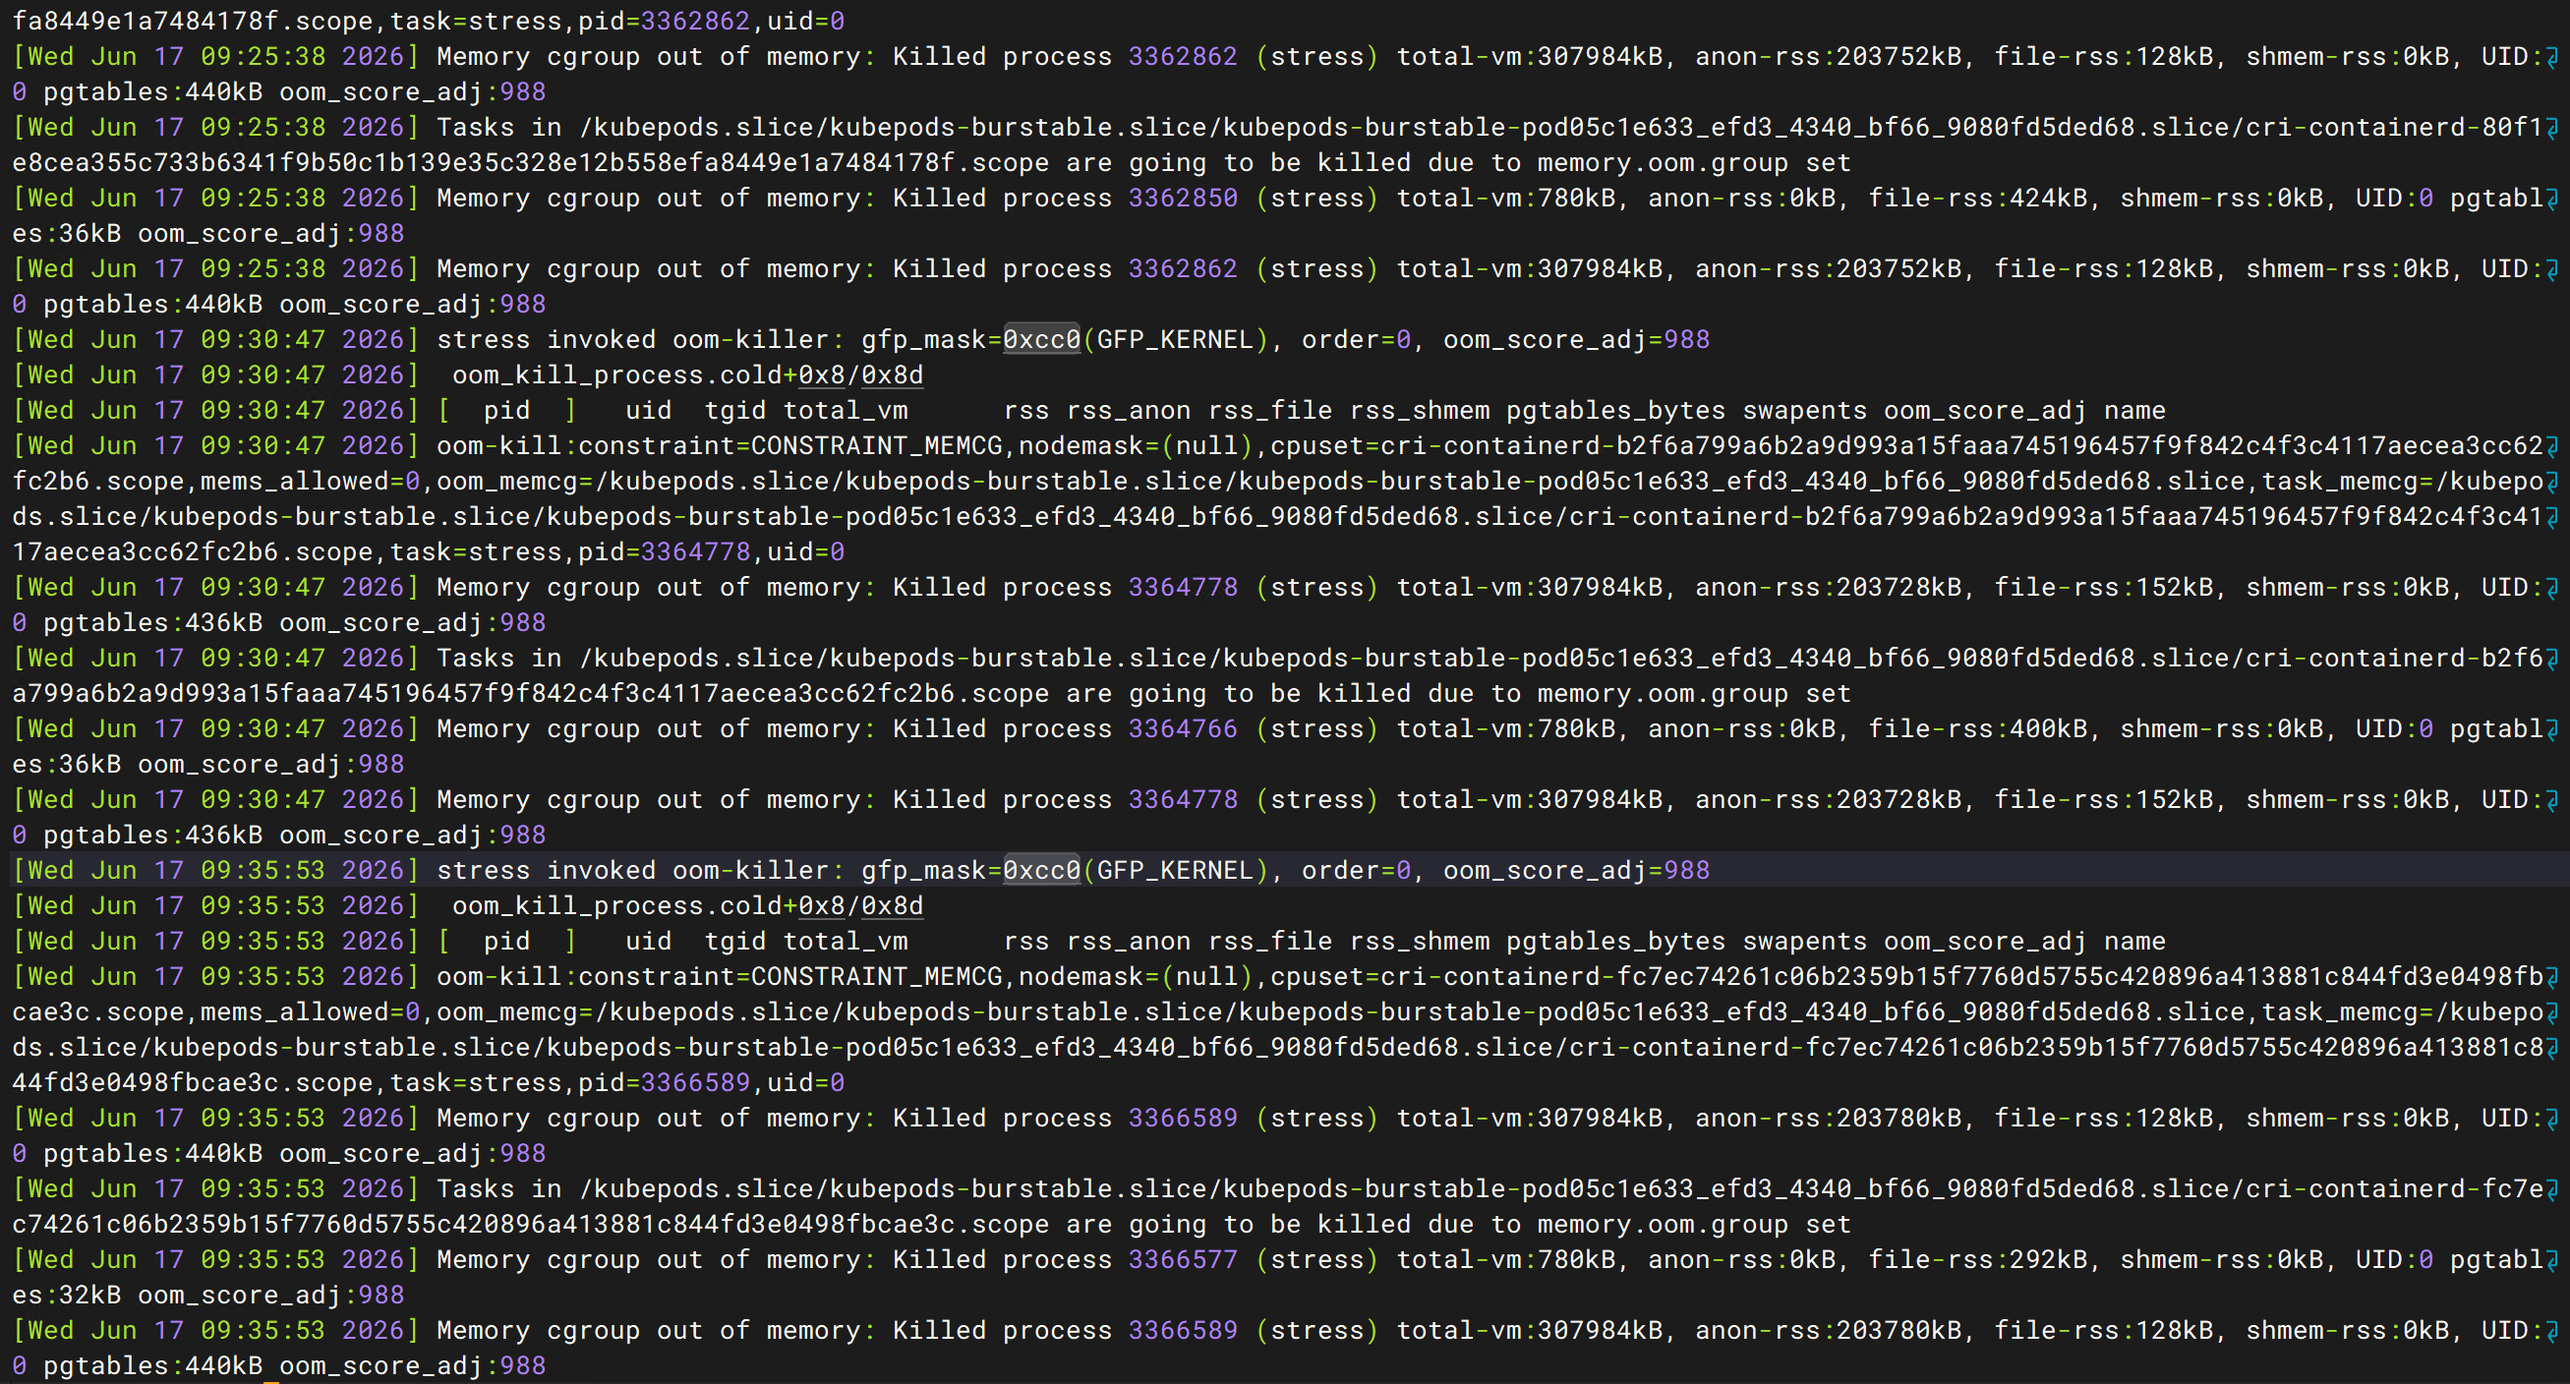
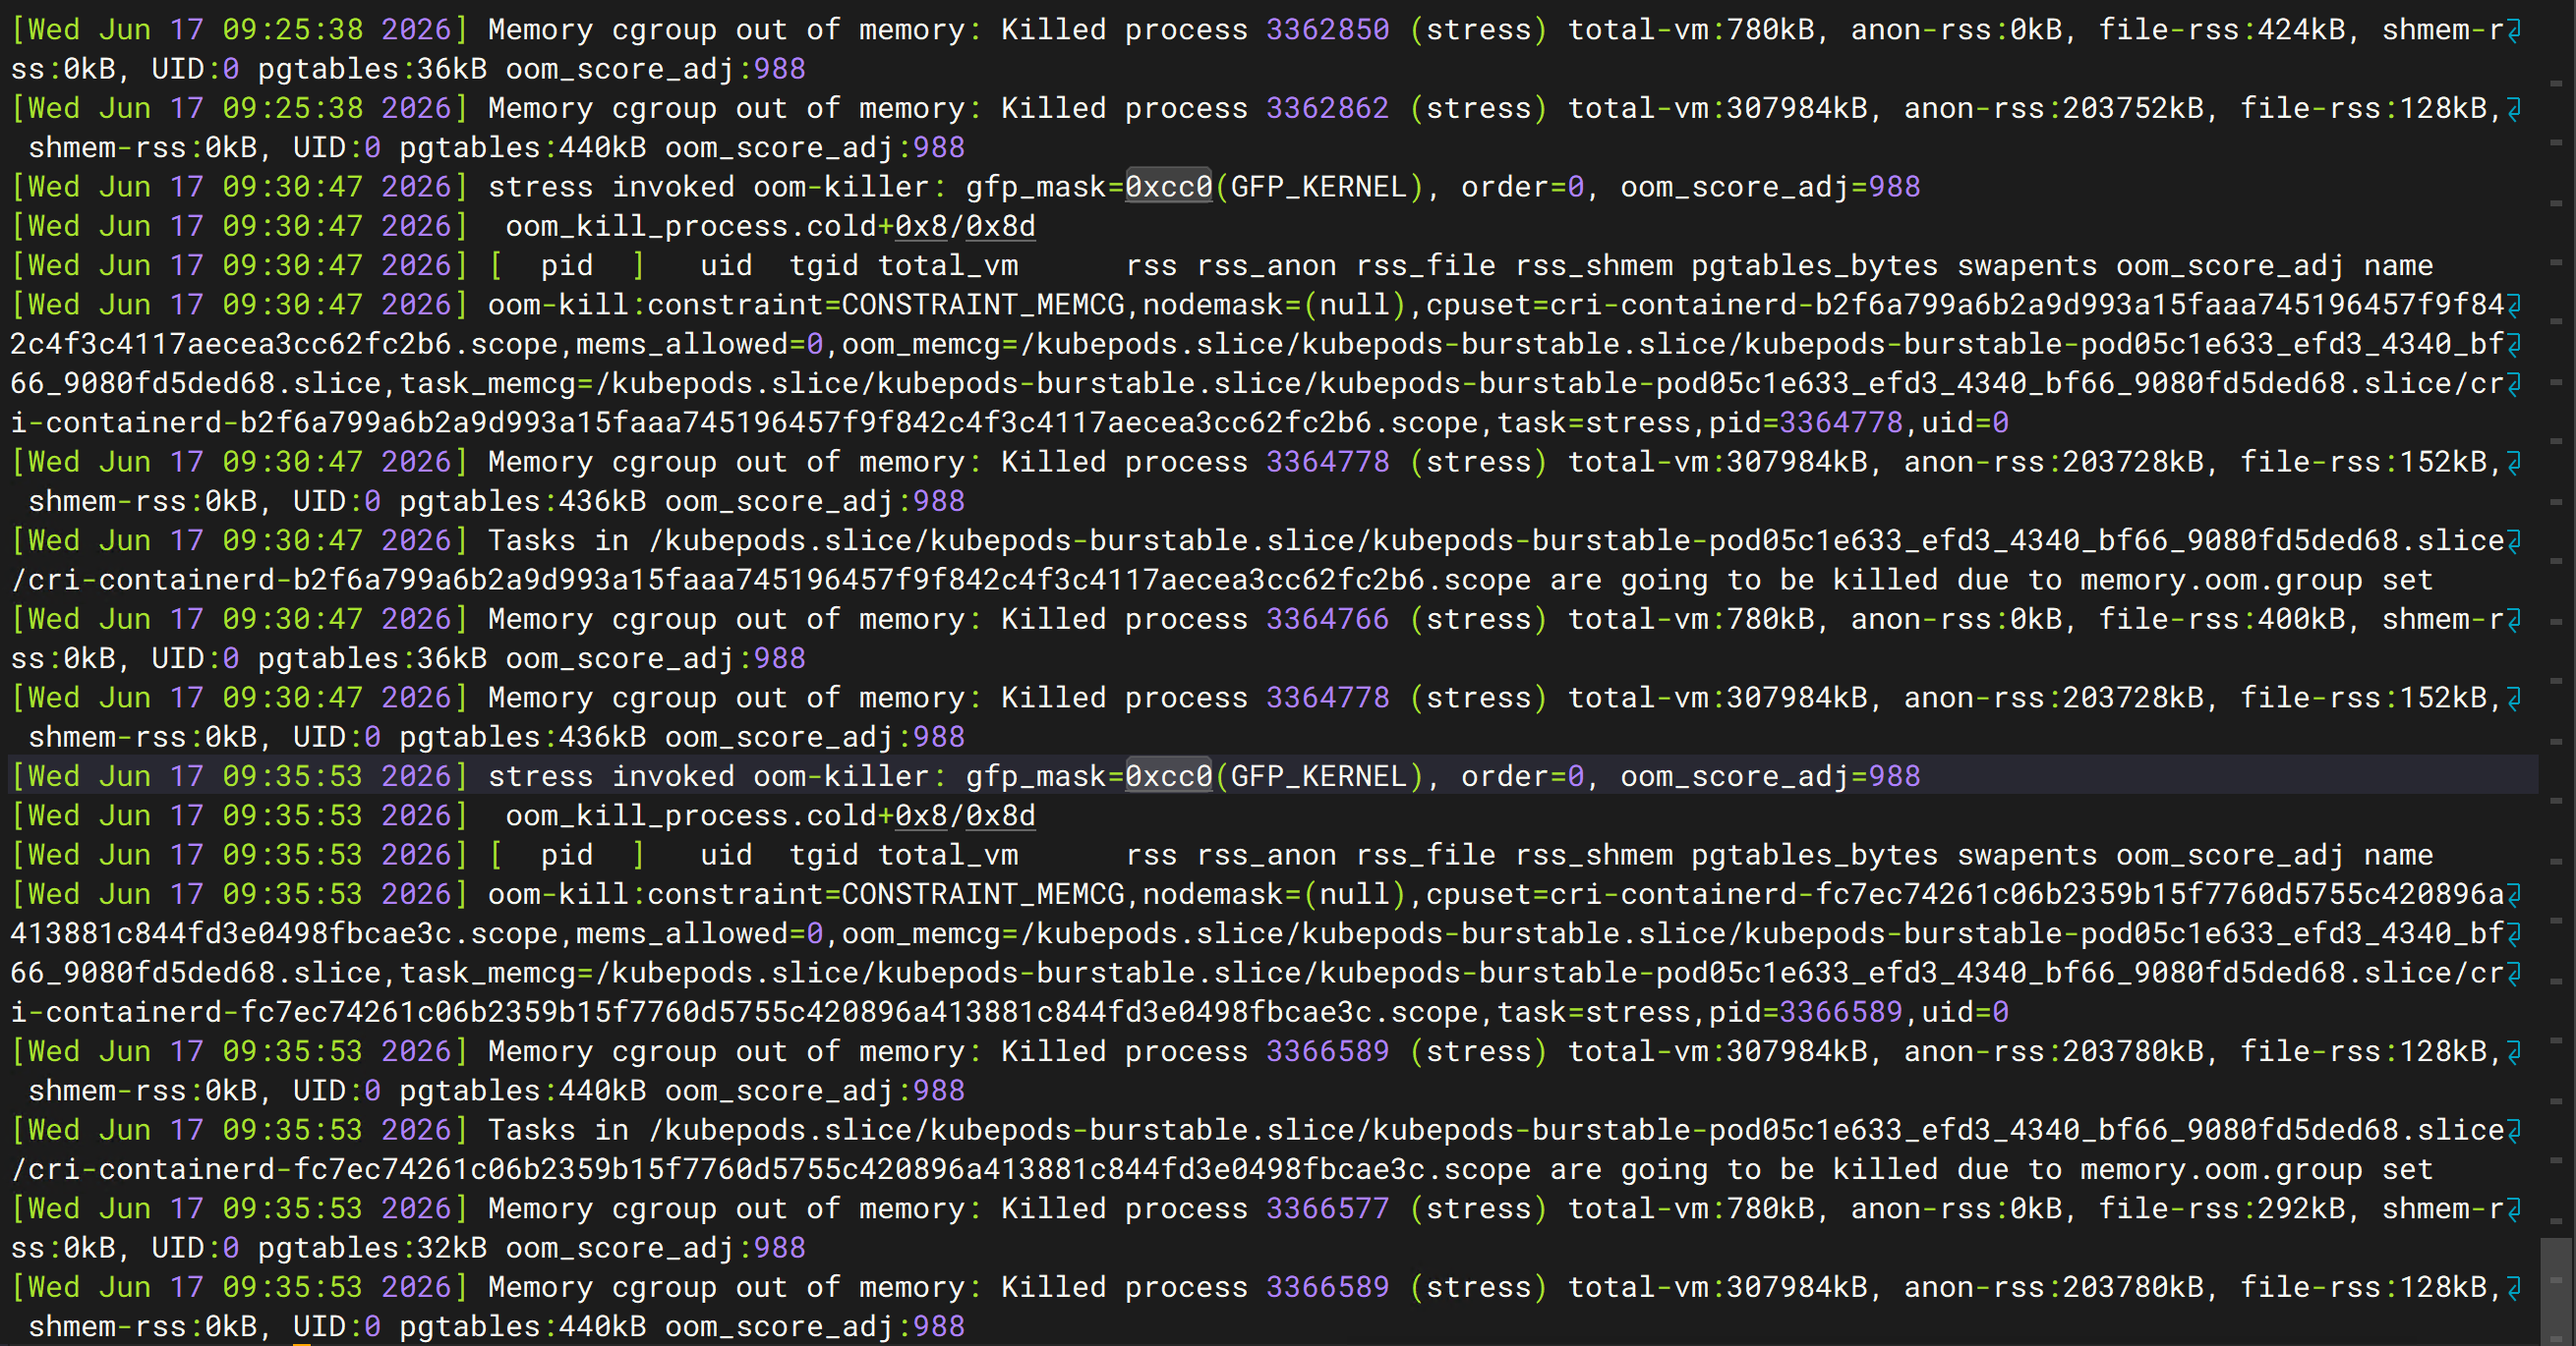
添加ubuntu2204部署文章

Changed region(s): [[0.0, 0.0, 1.0, 1.0]]

diff --git a/docs/deployment/linux/ubuntu-22.04.md b/docs/deployment/linux/ubuntu-22.04.md
@@ -33,6 +33,7 @@ Ubuntu 每两年发布一个 LTS（Long Term Support）长期支持版本。
 | Ubuntu 20.04 | LTS | 2025 |
 | Ubuntu 22.04 | LTS | 2027 |
 | Ubuntu 24.04 | LTS | 2029 |
+| Ubuntu 26.04 | LTS | 2031 |
 
 本教程采用：
 
@@ -46,21 +47,12 @@ Ubuntu 每两年发布一个 LTS（Long Term Support）长期支持版本。
 
 最低配置：
 
-| 项目  | 配置     |
-| --- | ------ |
-| CPU | 1 Core |
-| 内存  | 2 GB   |
-| 磁盘  | 20 GB  |
-| 网络  | 可联网    |
-
-推荐配置：
-
-| 项目  | 配置     |
-| --- | ------ |
-| CPU | 2 Core |
-| 内存  | 4 GB   |
-| 磁盘  | 50 GB  |
-| 网络  | 千兆网络   |
+| 项目  | 配置     | 推荐配置|
+| --- | ------ |----|
+| CPU | 1 Core |2 Core|
+| 内存  | 2 GB   | 4 GB|
+| 磁盘  | 20 GB  | 50 GB
+| 网络  | 可联网    | 千兆网络|
 
 ---
 
@@ -68,7 +60,7 @@ Ubuntu 每两年发布一个 LTS（Long Term Support）长期支持版本。
 
 提前下载 Ubuntu ISO 镜像：
 
-[Ubuntu 官方下载页面](https://ubuntu.com/download/server?utm_source=chatgpt.com)
+[Ubuntu 官方下载页面](https://ubuntu.com/download/server)
 
 建议下载：
 
@@ -76,19 +68,23 @@ Ubuntu 每两年发布一个 LTS（Long Term Support）长期支持版本。
 ubuntu-22.04.x-live-server-amd64.iso
 ```
 
+如果想学习压力小一点可以先安装 ![Desktop](https://ubuntu.com/download/desktop) 版本体验。
+
 ---
 
 ## 创建虚拟机
 
-本教程使用 VMware Workstation 演示。
+本教程使用 ![VMware Workstation Pro 26H1](https://pan.quark.cn/s/14503c2e7051?pwd=MBKT) 演示。
 
 ### 新建虚拟机
 
-选择：
+点击客户端左上角的 “File” 选择：
 
 ```text
-Create a New Virtual Machine
+New Virtual Machine
 ```
+
+接着 `下一步`
 
 ---
 
@@ -100,11 +96,22 @@ Create a New Virtual Machine
 ubuntu-22.04.x-live-server-amd64.iso
 ```
 
-📷（此处插入截图）
+![选择镜像文件](../../assets/images/deployment/Ubuntu-2204/ubuntu-2204-选择镜像文件.png)
 
 ---
 
+### 名称和存放位置
+
+  - 名称随意
+  - 存放位置保持默认，也可选择个人偏向的位置。
+  - 大小按默认翻个倍，选择 “单个磁盘文件”
+
+  ![磁盘位置大小](../../assets/images/deployment/Ubuntu-2204/ubuntu-2204-磁盘位置和大小.png)
+---
+
 ### 配置虚拟机规格
+
+可在虚拟机设置界面修改：右键点击相应的虚拟机，选择末尾的“设置”.
 
 建议：
 
@@ -116,7 +123,7 @@ Memory：4096 MB
 Disk：50 GB
 ```
 
-📷（此处插入截图）
+![虚拟机配置](../../assets/images/deployment/Ubuntu-2204/ubuntu-2204-虚拟机配置.png)
 
 ---
 
@@ -130,8 +137,7 @@ Disk：50 GB
 Try or Install Ubuntu Server
 ```
 
-📷（此处插入截图）
-
+![安装界面](../../assets/images/deployment/Ubuntu-2204/Ubuntu2204安装界面.png)
 ---
 
 ## 语言选择
@@ -148,7 +154,11 @@ English
 * 错误日志容易搜索
 * 避免编码问题
 
-📷（此处插入截图）
+![语言选择](../../assets/images/deployment/Ubuntu-2204/Ubuntu2204-语言选择.png)
+
+接下来直接跳过更新
+
+![跳过更新](../../assets/images/deployment/Ubuntu-2204/Ubuntu2204-跳过更新.png)
 
 ---
 
@@ -160,52 +170,31 @@ English
 English (US)
 ```
 
-📷（此处插入截图）
+![键盘布局](../../assets/images/deployment/Ubuntu-2204/Ubuntu2204-键盘.png)
+
+---
+
+## 安装类型
+
+保持默认即可：
+
+![安装类型](../../assets/images/deployment/Ubuntu-2204/Ubuntu2204-安装类型.png)
 
 ---
 
 ## 网络配置
 
-安装程序会自动识别网卡。
+安装程序会自动识别网卡，默认 DHCP 自动获取 IP 地址，如需修改 IP 地址可在系统安装完成后配置。
 
-如果使用 DHCP：
-
-```text
-Automatic
-```
-
-即可。
-
-如果需要固定 IP：
-
-选择：
-
-```text
-Edit IPv4
-```
-
-配置：
-
-```text
-IP Address
-Subnet Mask
-Gateway
-DNS
-```
-
-📷（此处插入截图）
+![ip地址](../../assets/images/deployment/Ubuntu-2204/Ubuntu2204-IP地址.png)
 
 ---
 
 ## 配置代理
 
-家庭实验环境可直接跳过：
+直接回车跳过：
 
-```text
-Leave blank
-```
-
-📷（此处插入截图）
+![proxy](../../assets/images/deployment/Ubuntu-2204/Ubuntu2204-proxy.png)
 
 ---
 
@@ -214,12 +203,12 @@ Leave blank
 建议使用默认源：
 
 ```text
-archive.ubuntu.com
+http://cn.archive.ubuntu.com/ubuntu
 ```
 
 国内用户可以后续切换镜像源。
 
-📷（此处插入截图）
+![镜像源](../../assets/images/deployment/Ubuntu-2204/Ubuntu2204-镜像源.png)
 
 ---
 
@@ -244,7 +233,13 @@ swap
 
 分区创建。
 
-📷（此处插入截图）
+![磁盘选择](../../assets/images/deployment/Ubuntu-2204/Ubuntu2204-磁盘选择.png)
+
+继续保持默认：
+
+![分区创建](../../assets/images/deployment/Ubuntu-2204/Ubuntu2204-分区创建.png)
+
+选择 `Done` 后会弹出 “确认” 框，选择 `Continue` 继续。
 
 ---
 
@@ -264,15 +259,11 @@ Password
 
 例如：
 
-```text
-Name: hairlabs
+![创建账户密码](../../assets/images/deployment/Ubuntu-2204/Ubuntu2204-创建账户密码.png)
 
-Hostname: ubuntu2204
+跳过 Ubuntu Pro
 
-Username: admin
-```
-
-📷（此处插入截图）
+![跳过ubuntu pro](../../assets/images/deployment/Ubuntu-2204/Ubuntu2204-跳过ubuntupro.png)
 
 ---
 
@@ -286,7 +277,7 @@ Install OpenSSH Server
 
 这样安装完成后即可远程连接。
 
-📷（此处插入截图）
+![安装ssh](../../assets/images/deployment/Ubuntu-2204/Ubuntu2204-安装SSH.png)
 
 ---
 
@@ -300,7 +291,7 @@ Install OpenSSH Server
 Done
 ```
 
-📷（此处插入截图）
+![额外软件包](../../assets/images/deployment/Ubuntu-2204/Ubuntu2204-不安装额外软件包.png)
 
 ---
 
@@ -316,7 +307,7 @@ Done
 
 取决于硬件性能。
 
-📷（此处插入截图）
+![开始安装](../../assets/images/deployment/Ubuntu-2204/Ubuntu2204-开始安装系统.png)
 
 ---
 
@@ -328,7 +319,9 @@ Done
 Reboot Now
 ```
 
-📷（此处插入截图）
+![安装完成](../../assets/images/deployment/Ubuntu-2204/Ubuntu2204-安装完成.png)
+
+> 重启之前会提示卸载挂载的光驱，虚拟机按 Enter 跳过，物理机拔掉启动盘。
 
 ---
 
@@ -345,12 +338,12 @@ login:
 成功后看到：
 
 ```bash
-admin@ubuntu2204:~$
+test@1hairlabs:~$
 ```
 
 表示安装成功。
 
-📷（此处插入截图）
+![登录成功](../../assets/images/deployment/Ubuntu-2204/Ubuntu2204-登录成功.png)
 
 ---
 
@@ -454,6 +447,9 @@ sudo systemctl enable ssh --now
 
 ## 总结
 
+!!! tip "其他版本安装"
+    其他的版本的安装和本教程的安装相差无几，可以参考。
+
 至此，我们已经完成：
 
 ✅ Ubuntu 22.04 安装
@@ -480,9 +476,3 @@ sudo systemctl enable ssh --now
 * VMware Workstation 安装教程
 * Docker 安装教程
 * Kubernetes 集群部署教程
-
----
-
-**文章概览（120字以内）**
-
-> Ubuntu 22.04 是目前最流行的 Linux 发行版之一。本教程从 ISO 下载、虚拟机创建、系统安装到 SSH 配置和基础检查，带你零基础完成 Ubuntu Server 22.04 的部署，为后续学习 Docker、Kubernetes 和云原生技术打下基础。
